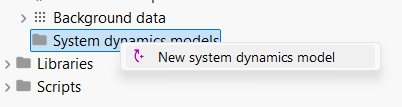
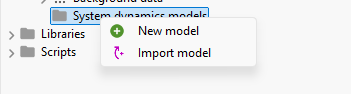
updated system dynamics

diff --git a/src/advanced_top/system_synamics.md b/src/advanced_top/system_synamics.md
@@ -1,8 +1,8 @@
 <div style='text-align: justify;'>
 
-# First test version of integrating system dynamics into openLCA
+# Current implementation of system dynamics in openLCA
 
-System dynamics allows to model non-linear behavior of complex systems over time using stocks, flows, and feedback loops. It makes it possible to model product systems in broader system surroundings and further define dynamic relationships of system variables. In openLCA you can now link your LCA models to system dynamics models, making it possible to calculate dynamic impact results over time. 
+System dynamics allows to model non-linear behaviour of complex systems over time using stocks, flows, and feedback loops. It makes it possible to model product systems in broader system surroundings and further define dynamic relationships of system variables. In openLCA you can now link your LCA models to system dynamics models, making it possible to calculate dynamic impact results over time.
 
 First, you need to enable "Support for system dynamics models" in the preferences (do not forget to press "Apply" or "Apply & Close" in that dialog):
 
@@ -12,49 +12,111 @@ Then, refresh the navigation via F5 or the refresh button:
 
 ![](../media/sys_dyn_2.png)
 
-You should now see a folder "System dynamics models" in your database folders:
+You should see a folder "System dynamics models" in your database folders now:
 
 ![](../media/sys_dyn_3.png)
 
-Right click to add a new model:
+Right click to create a new model or import a model:
 
 ![](../media/sys_dyn_4.png)
 
-openLCA does not yet include a system dynamics modelling interface, so the models need to be first pre-modelled and exported from a system dynamics software. You need a XMILE file of your model. Some example models can be found here: [https://exchange.iseesystems.com/directory/isee](https://exchange.iseesystems.com/directory/isee) (but not all of these are supported yet). 
+## Creating a new system dynamics model 
 
-The pop-up window allows you to give your systems dynamics model a name and select the XMILE file of your model. 
+When creating a new model, general information that can be defined includes the name, the start and stop time as well as the time steps, the time unit, and the impact assessment method. The defined time settings are specifications used for the simulation runs. The impact assessment method is for calculating the impacts at each time step. After the model has been created, these settings can be still changed in the “Calculation setup” tab of the system dynamics model editor window.  
 
 ![](../media/sys_dyn_5.png)
 
-By clicking “Finish”, the model editor will open with the model settings, variables, and generated image of the model.
+## Importing a system dynamics model
+
+The imported models need to be in the standard [XMILE](https://www.oasis-open.org/standard/xmile1-0/) system dynamics format. A pop-up window allows you to select a file in your file directory and import it directly. 
+
+## System dynamics modelling 
+
+When opening your system dynamics model, the model editor will show a graphical representation of your model in the tab “Model” and the defined calculation settings in the tab “Calculation setup”. 
+
+If you imported an existing model, it will show this model in the “Model” tab. 
 
 ![](../media/sys_dyn_6.png)
 
-You can directly run a model with the "Run simulation button". It will run the simulation and open the results view (below you see the results of an array variable):
+This model can then be edited by right clicking on a blank area of the model to add new elements or by right clicking on existing elements to edit or delete these elements. 
 
 ![](../media/sys_dyn_7.png)
 
-You should always test the model first before trying to link it to an LCA model, as not all features of your system dynamics software may be supported yet. It can also be that the results differ slightly to the results of your system dynamics software. In most cases you should get an error message:  
+When creating a new system dynamics model, the page will be blank. To add elements to your model, right click and choose the element you would like to add. Options are “Add stock”, “Add rate”, “Add auxiliary”, and “Add product system”. 
 
 ![](../media/sys_dyn_8.png)
 
-When your model works, you can link its model variables to parameters of product systems.
-In the "Product systems" tab, you can bind a model variable (stock, rate, auxiliary) to parameters of selected product systems. Note that you can only bind variables that evaluate to plain numbers to parameters as openLCA does not support other data types other than numbers for parameters. However, the SD simulation engine of openLCA has support for arrays that can be used in model variables.
+The elements have the following shapes in the graphical editor:
 
 ![](../media/sys_dyn_9.png)
 
-In each simulation step, it will then calculate the linked product system with the respective values from the system dynamics model of that step. 
+The system dynamics elements are defined as follows: 
+-	**Stocks**: are accumulations or state variables in a system that represent quantities at a given point in time (e.g., population, inventory, or savings). They change only through flows.
+-	**Flows**: are the rates at which stocks increase or decrease over time (e.g., births, sales, or withdrawals). They determine how stocks evolve.
+-	**Auxiliary**: are intermediate variables used to calculate flows or provide additional logic and relationships in the model (e.g., birth rate, demand factor, or policy settings). They do not accumulate over time themselves.
 
-Once you linked your product system, you need to select an LCIA method in the setup in order to get LCA results:
+When adding a stock, a pop-up window appears to define name, unit, whether the stock is a non-negative, input and output flows, the type, and finally values or an equation. Input and output flows can be added or remove by right clicking on the adjoining boxes. Only flows that exist in the model can be selected. 
 
 ![](../media/sys_dyn_10.png)
 
-Run the simulation by clicking “Run simulation”.
+When selecting the type there are 3 options. 
 
 ![](../media/sys_dyn_11.png)
 
-You will then get LCIA results for each simulation step which can be exported to excel with the corresponding model variables.
+The equation type allows you to either enter a value or define an equation. An equation can consist of constants but also elements of your model as variables. 
 
 ![](../media/sys_dyn_12.png)
 
+Common system dynamics functions can also be used. The implementation in openLCA is guided by the XMILE Standard. More information on the standard can be found [here](https://docs.oasis-open.org/xmile/xmile/v1.0/os/xmile-v1.0-os.html#_Toc439926071). A list of the supported functions for the system dynamics implementation in openLCA can be found [here](https://github.com/GreenDelta/olca-modules/blob/master/olca-sd/README.md). 
+
+When selecting the Lookup function type, several ways of how y-values are estimated can be selected: 
+-	Linear interpolation: Draw a straight line between known points.
+-	Linear extrapolation: Continue a straight line beyond the known points.
+-	Discrete (next lower): Use the closest lower entry from the table.
+
+![](../media/sys_dyn_13.png)
+
+The equation for x can be anything that evaluates to a number. Right click on the Lookup table to add or delete rows. 
+
+![](../media/sys_dyn_14.png)
+
+When adding flows or auxiliaries to your model these can be edited similar to stocks. Adding product systems on the other hand requires you first to select existing a product system in your database. 
+
+![](../media/sys_dyn_15.png)
+
+In a second step, system dynamics variables (stocks, flows, auxiliaries) can be linked to your selected product system. The variable can be selected to overwrite your reference amount of the linked product system. 
+
+![](../media/sys_dyn_16.png)
+
+Or parameters used in your product system.
+
+![](../media/sys_dyn_17.png)
+
+![](../media/sys_dyn_18.png)
+
+During the simulation, the system dynamics model variable values calculated at each time step will overwrite the linked parameter values in your selected product system. This occurs in each iteration of the defined timeframe, thereby producing change parameter values over time and therefore, changing product system results over time. 
+
+A further variable type is an array. Currently these cannot be edited and only be shown in imported models that include arrays. 
+
+![](../media/sys_dyn_19.png)
+
+## Running system dynamics models
+
+You can run the model with “Run simulation” in the calculation setup tab. 
+
+![](../media/sys_dyn_20.png)
+
+You should always test the model first before trying to link it to an LCA model, as not all features of your system dynamics software may be supported yet. You will get an error message if the model is not supported:  
+
+![](../media/sys_dyn_21.png)
+
+If you are only interested in the system dynamics results, you can run the model without having linked product systems or selected an impact assessment method. Otherwise you can select an impact assessment method and run the simulation. 
+
+![](../media/sys_dyn_22.png)
+
+You will then get LCIA results for each simulation step with the corresponding model variables.
+
+![](../media/sys_dyn_23.png)
+
+Results can then be exported to excel. 
 </div>
